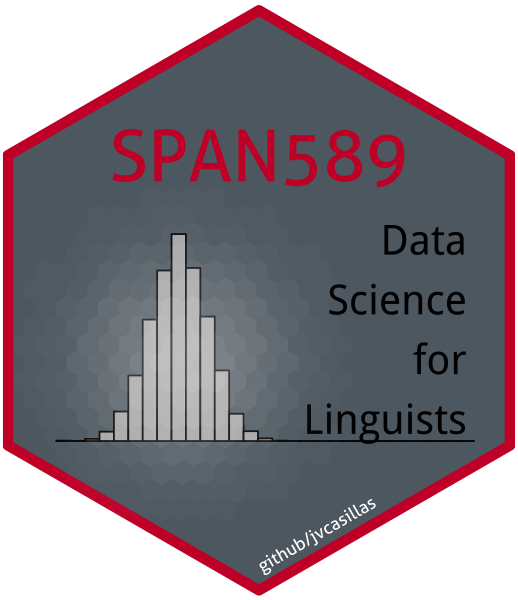
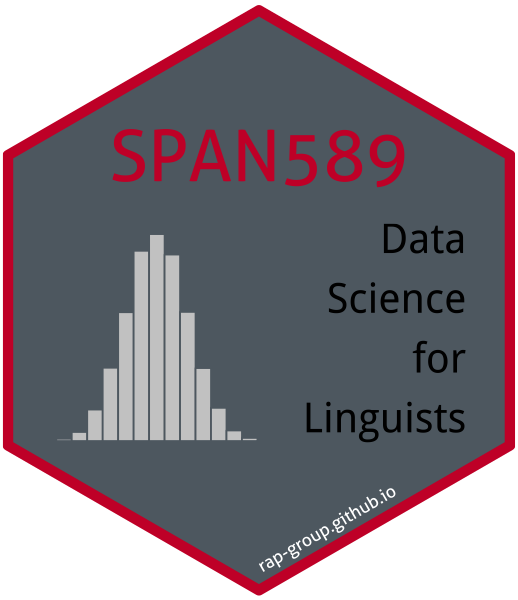
update rapgroup and todo

diff --git a/README.md b/README.md
@@ -1,5 +1,5 @@
 
-# hex-stickers
+## hex-stickers
 
 A repo for my hex stickers. You can find all the [code used to create
 the hex logos](./scripts) as well as the [PNGs](./stickers). This repo
@@ -15,12 +15,6 @@ has changed a lot.
 
 <p align="center">
 
-<img src='stickers/imgfile.png' width='200px'/>
-
-</p>
-
-<p align="center">
-
 <img src='stickers/osrrl.png' width='200px'/>
 
 </p>
@@ -30,3 +24,10 @@ has changed a lot.
 <img src='stickers/rap-group.png' width='200px'/>
 
 </p>
+
+## To add
+
+  - untidydata
+  - lingStuff
+  - academicWriteR
+  - SPAN362
